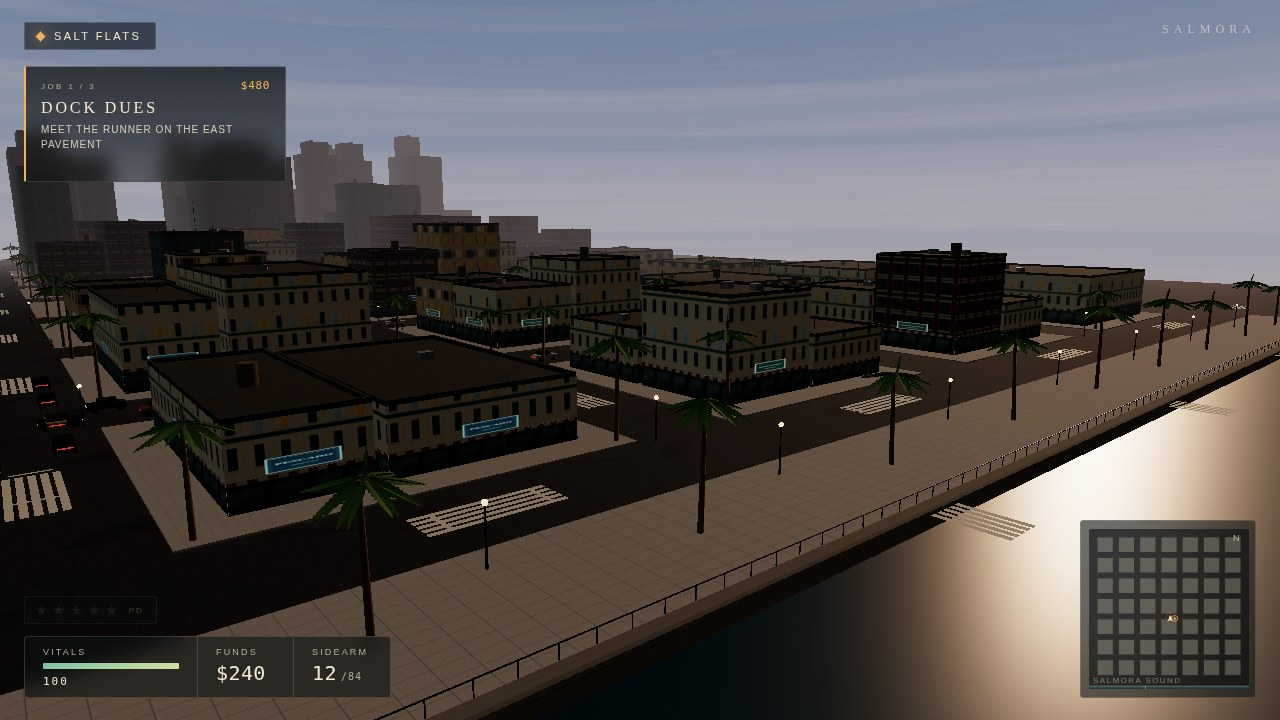
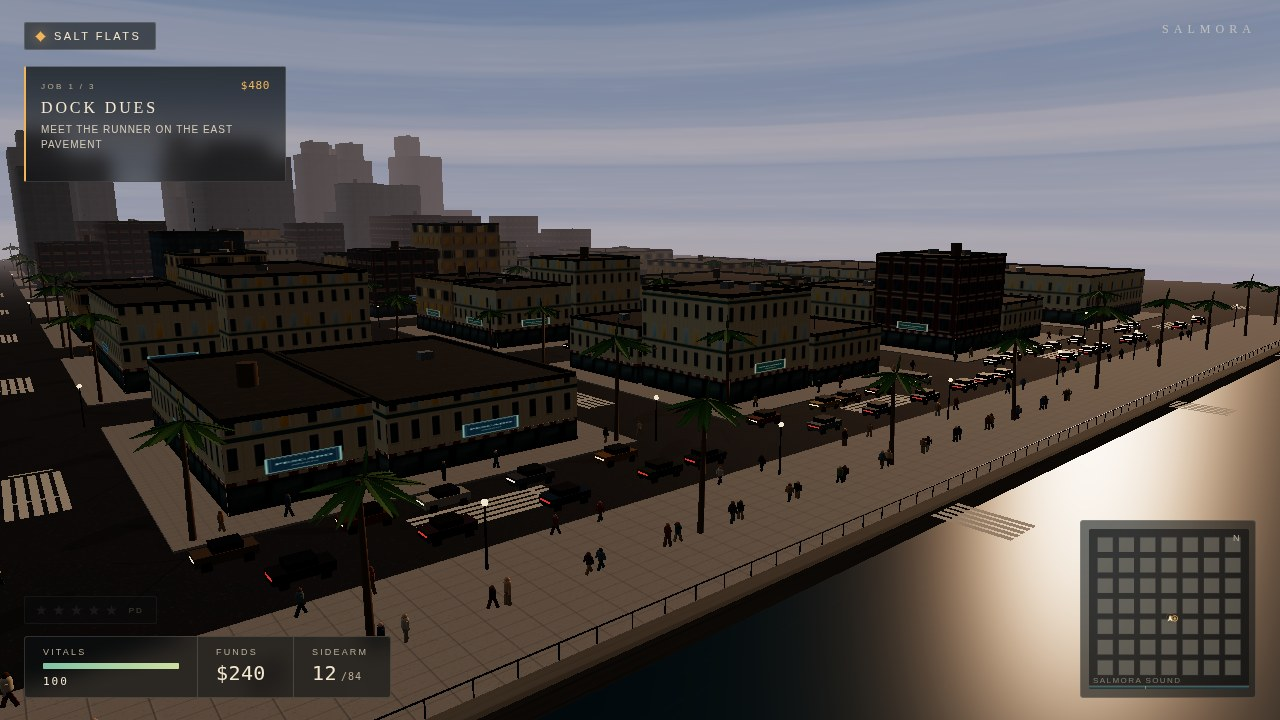
Stage the vista's street: fill the seafront avenue the eye looks down
The vista frames street 7, the outermost avenue, which traffic.reseed never
fills (it clamps its streets to STREETS - 2) and where the crowd has no
standing spots, so the shot that should prove the city's scale proved it
empty. The staged frame now lays the fleet on that avenue's two lanes and the
crowd on its pavements and promenade, where the camera can see them, steps
the ambient sim 1.6 s so wheels are turning and legs mid-swing, and reports
the in-frustum counts; tools/shots.py refuses to write the capture unless it
holds 10 cars, 8 of them moving, and 20 walkers. Other shots untouched.

diff --git a/game/src/main.js b/game/src/main.js
@@ -10,7 +10,7 @@ import { Car } from './car.js';
 import { ChaseCamera } from './camera.js';
 import { Input } from './input.js';
 import { Hud } from './hud.js';
-import { CAR_NAME, START, WALK, districtAt } from './config.js';
+import { CAR_NAME, CITY, START, WALK, districtAt } from './config.js';
 import { Rng, hashSeed } from './rng.js';
 import { Traffic } from './traffic.js';
 import { Crowd } from './pedestrians.js';
@@ -90,6 +90,24 @@ const SHOTS = {
     focus: [40, 178],
     restock: 90,
     crowd: 80,
+    // Street 7 is the seafront avenue the eye looks down, the one street the
+    // respawner never fills (it clamps to STREETS - 2). The shot lays the fleet
+    // on its lanes and the crowd on its pavements instead, in metres.
+    fill: {
+      street: 7,
+      from: -90,
+      to: 170,
+      lane: 3.1,
+      cars: 46,
+      // walkers, in strips: the two pavements either side of the avenue, then
+      // the promenade the eye stands over, where a body is worth most pixels
+      walkers: 92,
+      strips: [
+        { z: -8.6, from: -90, to: 170, share: 0.3 },
+        { z: 8.6, from: -90, to: 170, share: 0.3 },
+        { z: 15.5, from: -50, to: 80, share: 0.4 },
+      ],
+    },
   },
 };
 
@@ -138,6 +156,7 @@ let mode = 'walk';
 let paused = false;
 let staged = false;
 let stagedFocus = null;
+let stagedFill = null;
 let nearCar = false;
 let frames = 0;
 let elapsed = 0;
@@ -391,6 +410,105 @@ window.addEventListener('resize', () => world.resize());
 
 /* --- staging ----------------------------------------------------------- */
 
+/* How far inside the frame an object has to sit to be counted as in shot:
+   the very edge of a render is not something a viewer reads. */
+const EDGE = 0.97;
+
+/** True when a world point lands inside the staged camera's frame. */
+function inFrame(x, y, z) {
+  const camera = world.camera;
+  camera.updateMatrixWorld(true);
+  const view = new THREE.Vector3(x, y, z).applyMatrix4(
+    camera.matrixWorldInverse.copy(camera.matrixWorld).invert(),
+  );
+  if (view.z > -1) return false;
+  const ndc = new THREE.Vector3(x, y, z).project(camera);
+  return Math.abs(ndc.x) <= EDGE && Math.abs(ndc.y) <= EDGE;
+}
+
+/** What the staged frame actually holds, projected exactly as it renders. */
+function frustumCounts() {
+  let cars = 0;
+  let moving = 0;
+  let walkers = 0;
+  for (const car of traffic.cars) {
+    if (!car.alive || !inFrame(car.x, 1, car.z)) continue;
+    cars++;
+    if (Math.abs(car.speed) > 0.5) moving++;
+  }
+  for (const person of crowd.people) {
+    if (inFrame(person.x, 1.2, person.z)) walkers++;
+  }
+  return { cars, moving, walkers };
+}
+
+/** Run the ambient sim forward without waiting on the wall clock, so wheels are
+ *  turning and legs mid-swing on the frame that gets shot. */
+function stepStaged(seconds) {
+  const dt = 1 / 60;
+  for (let t = 0; t < seconds; t += dt) {
+    traffic.update(dt, { focus: stagedFocus, car: null, body: null, peds: crowd });
+    crowd.update(dt, { car: null, traffic });
+  }
+}
+
+/** Lay the street a shot frames with traffic and walkers. `traffic.reseed` only
+ *  ever uses the inner streets (it clamps to STREETS - 2), so the seafront
+ *  avenue a vista looks down never receives a car of its own and the frame
+ *  reads as an empty town. The shot puts the fleet on its lanes and the crowd
+ *  on its pavements by hand; a fixed scatter, not game RNG, so every capture
+ *  is the same frame. */
+function stageFill(fill) {
+  const line = -CITY.half + fill.street * CITY.pitch + CITY.street / 2;
+  const span = fill.to - fill.from;
+  const fleet = Math.min(fill.cars, traffic.cars.length);
+  const perLane = Math.max(1, Math.ceil(fleet / 2));
+  const step = span / perLane;
+  for (let i = 0; i < fleet; i++) {
+    const car = traffic.cars[i];
+    const dir = i % 2 === 0 ? -1 : 1;
+    // lanes alternate by parity and a fixed quarter-slot scatter breaks the
+    // even spacing, so the avenue reads as traffic in flow and not two rows
+    // of parked cars
+    const slot = Math.floor(i / 2) + 0.5 + ((i * 0.618) % 1 - 0.5) * 0.5;
+    car.alive = true;
+    car.axis = 'x';
+    car.dir = dir;
+    car.line = line + dir * fill.lane;
+    car.along = fill.from + slot * step;
+    car.x = car.along;
+    car.z = car.line;
+    car.yaw = dir > 0 ? -Math.PI / 2 : Math.PI / 2;
+    car.speed = 6 + (i % 5) * 0.7;
+    car.cruise = 10.5 + (i % 4) * 1.2;
+    car.stuck = 0;
+    car.next = null;
+    car.nextK = undefined;
+    car.nextClaimed = false;
+  }
+  let used = 0;
+  for (const band of fill.strips) {
+    const many = Math.min(Math.round(fill.walkers * band.share), crowd.people.length - used);
+    const width = band.to - band.from;
+    for (let i = 0; i < many; i++) {
+      const person = crowd.people[used++];
+      const x = band.from + ((i + 0.5) / Math.max(1, many)) * width;
+      const z = line + band.z;
+      person.x = x;
+      person.z = z;
+      person.y = CITY.kerb;
+      person.state = 'walk';
+      person.speed = person.walk;
+      person.tx = x + (i % 2 ? 8 : -8);
+      person.tz = z;
+      person.timer = 30;
+      person.yaw = i % 2 ? -Math.PI / 2 : Math.PI / 2;
+      person.home = { x, z, r: 4 };
+    }
+  }
+  stepStaged(1.6);
+}
+
 function applyShot(name) {
   const pose = SHOTS[name];
   if (!pose) return false;
@@ -412,6 +530,12 @@ function applyShot(name) {
     new THREE.Vector3(pose.look[0], pose.look[1], pose.look[2]),
     pose.fov,
   );
+  // a shot that frames a street the respawner leaves empty packs it itself,
+  // once the eye is where the capture will hold it
+  if (pose.fill) {
+    stagedFill = pose.fill;
+    stageFill(pose.fill);
+  }
   hud.showTitle(Boolean(pose.titleCard));
   hud.setSpeed(null);
   hud.veiled(false);
@@ -632,6 +756,17 @@ window.__salmora = {
     chase.yaw = yaw;
     chase.pos.set(x + Math.sin(yaw) * 6, 3, z + Math.cos(yaw) * 6);
   },
+
+  /** Re-pack a staged frame that fills its own street, then report what the
+   *  camera holds. A capture that misses the bar is not worth taking. */
+  restageFill() {
+    if (!stagedFill) return null;
+    stageFill(stagedFill);
+    return frustumCounts();
+  },
+
+  /** What the current frame holds: cars, how many of them moving, walkers. */
+  frustum: frustumCounts,
 
   report() {
     const info = world.renderer.info;

diff --git a/tools/shots.py b/tools/shots.py
@@ -46,6 +46,13 @@ MAX_BYTES = 256 * 1024
 LONG_SIDE = 1280
 SHORT_SIDE = 480
 
+# A shot that is meant to prove the city is alive is only worth taking if the
+# frame is actually busy: cars under way and walkers on the pavement, counted
+# inside the camera frustum by the page's own projection before the shutter.
+FILL_BARS = {
+    "vista": {"cars": 10, "moving": 8, "walkers": 20},
+}
+
 
 class Quiet(http.server.SimpleHTTPRequestHandler):
     def log_message(self, fmt, *args):
@@ -60,7 +67,9 @@ def main() -> int:
     parser = argparse.ArgumentParser()
     parser.add_argument("--port", type=int, default=8333)
     parser.add_argument("--wait", type=int, default=5500, help="ms for traffic and crowds to settle")
+    parser.add_argument("--only", default="", help="shoot only these scene names, comma separated")
     args = parser.parse_args()
+    scenes = [s for s in SCENES if not args.only or s[1] in set(args.only.split(","))]
 
     SHOTS.mkdir(exist_ok=True)
     handler = functools.partial(Quiet, directory=str(GAME))
@@ -79,13 +88,29 @@ def main() -> int:
             lambda message: problems.append(f"console: {message.text}") if message.type == "error" else None,
         )
 
-        for name, scene in SCENES:
+        for name, scene in scenes:
             quality = 88
             target = SHOTS / name
             while True:
                 page.goto(f"{base}?shot={scene}&seed=1&quality=low", wait_until="domcontentloaded")
                 page.wait_for_function("window.__salmora && window.__salmora.frames > 4", timeout=120000)
                 page.wait_for_timeout(args.wait)
+                # a shot that has to show a living street is re-packed and
+                # measured right before the shutter, not trusted to the wait
+                bars = FILL_BARS.get(scene)
+                counts = page.evaluate("() => window.__salmora.restageFill()") if bars else None
+                if bars:
+                    if not counts:
+                        problems.append(f"{name} could not stage its street")
+                        break
+                    print(
+                        f"  {scene} frustum: {counts['cars']} cars ({counts['moving']} moving), "
+                        f"{counts['walkers']} walkers"
+                    )
+                    short = [f"{key} {counts[key]}/{bar}" for key, bar in bars.items() if counts[key] < bar]
+                    if short:
+                        problems.append(f"{name} frames too little life: {', '.join(short)}")
+                        break
                 state = page.evaluate(
                     "() => ({frames: window.__salmora.frames, staged: window.__salmora.staged,"
                     " wanted: window.__salmora.wanted, cash: window.__salmora.cash})"
